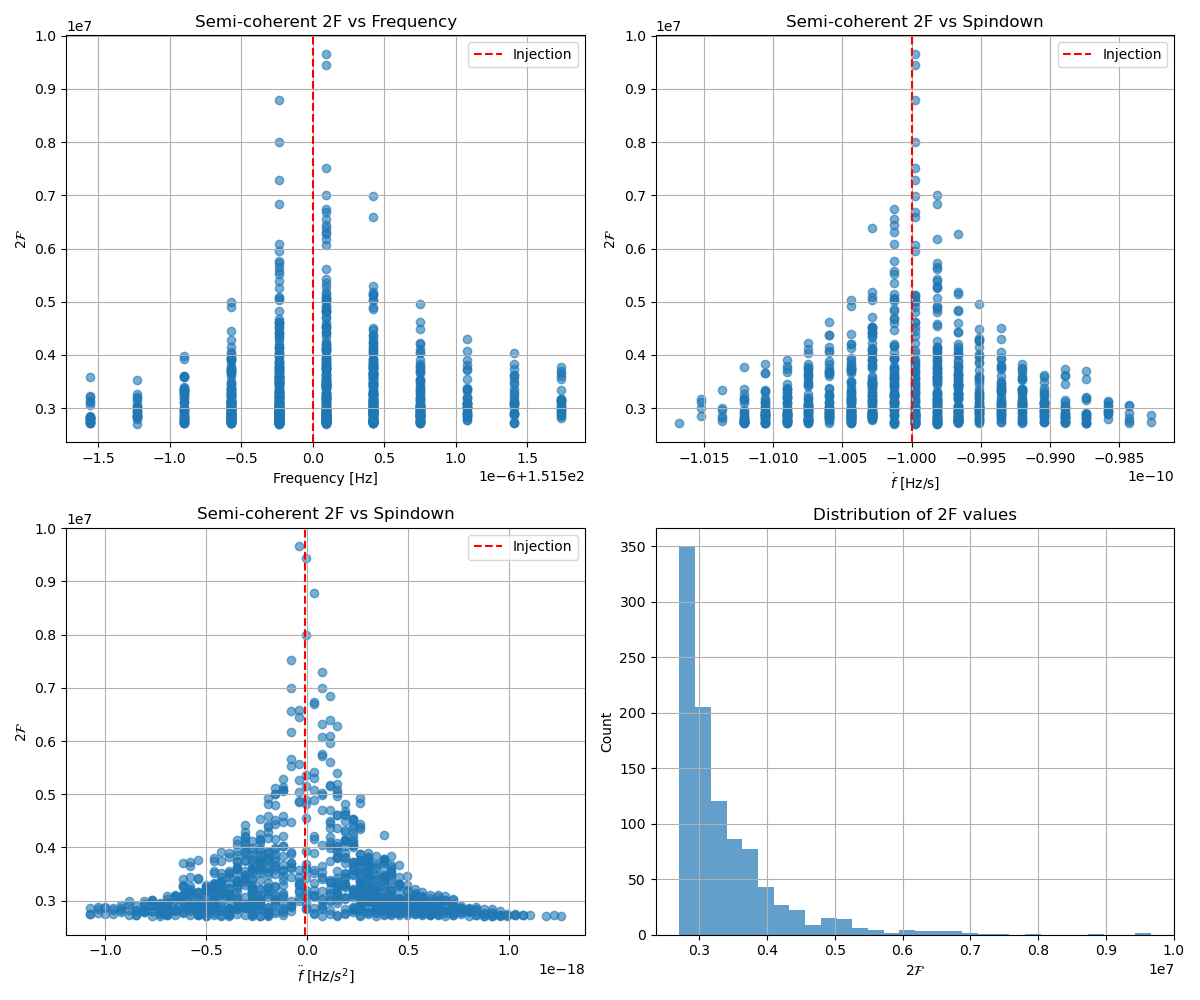
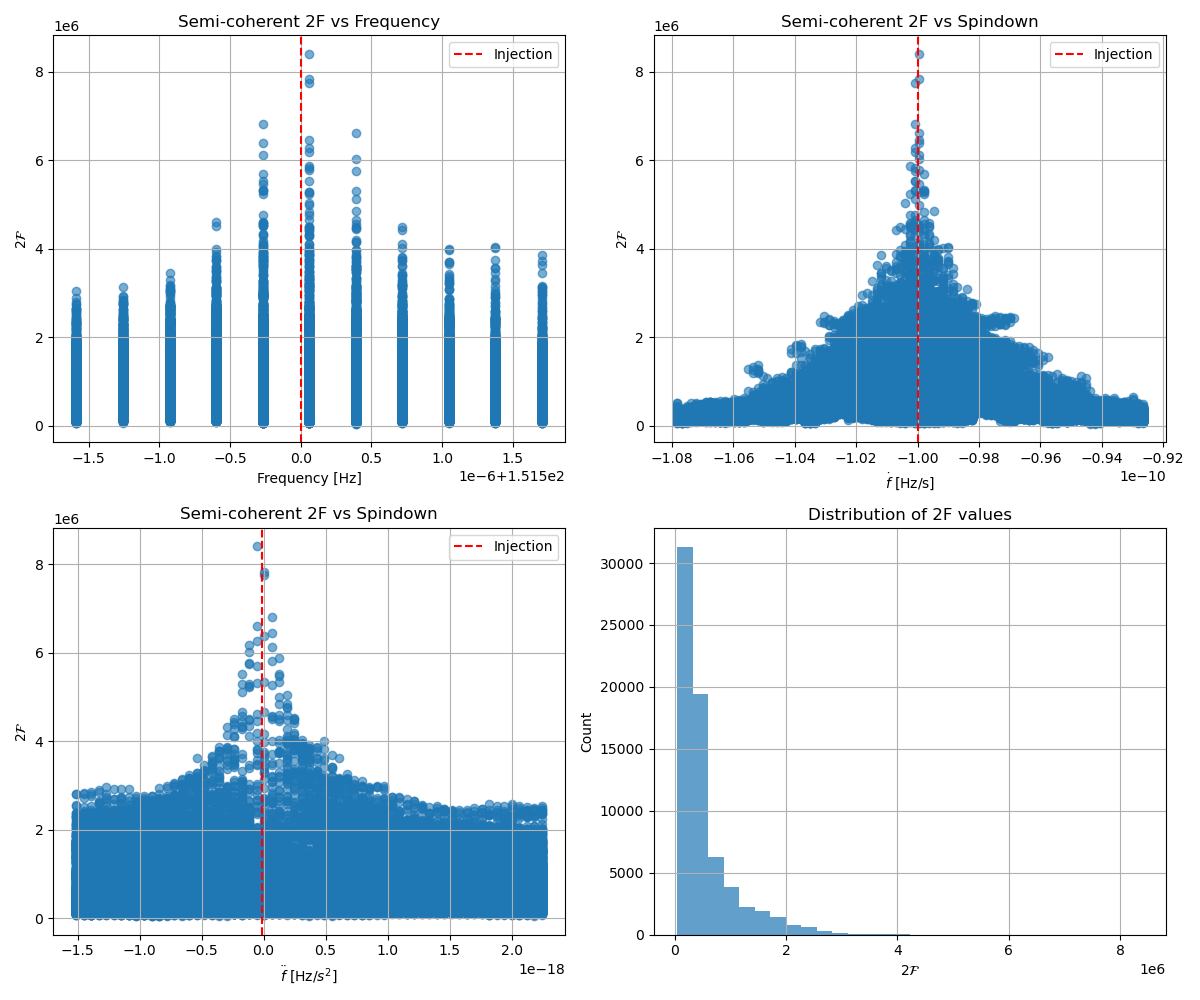
move files

diff --git a/lal_grid_search copy 4.py b/lal_grid_search copy 4.py
@@ -86,7 +86,7 @@ mf1 = 0.3
 mf2 = 0.003
 dF0 = np.sqrt(12 * mf) / (np.pi * tStack)
 dF1 = np.sqrt(180 * mf1) / (np.pi * tStack**2)
-df2 = np.sqrt(4 * 2520 * mf2) / (np.pi * tStack**3)
+df2 = np.sqrt(25200 * mf2) / (np.pi * tStack**3)
 
 # Search bands
 N1 = 10
@@ -149,7 +149,7 @@ hierarchsearch_cmd = [
     f"--nStacksMax={nStacks}",
     f"--mismatch1={mf:.15g}",
     f"--fnameout={output_file}",
-    "--nCand1=1000",
+    "--nCand1=100000",
     "--printCand1",
     "--semiCohToplist",
     f"--minStartTime1={int(tstart)}",
@@ -207,8 +207,18 @@ for line in lines:
             except ValueError:
                 continue
 
+
+
 if data:
     data = np.array(data)
+    
+    
+    # save to CSV file
+    results_csv = os.path.join(outdir, "semicoh_results.csv")
+    df = pd.DataFrame(data, columns=['F0', 'F1', 'F2', '2F'])
+    df.to_csv(results_csv, index=False)
+    print(f"Results saved to {results_csv}")
+    
     F0_vals = data[:, 0]
     F1_vals = data[:, 1]
     F2_vals = data[:, 2]
